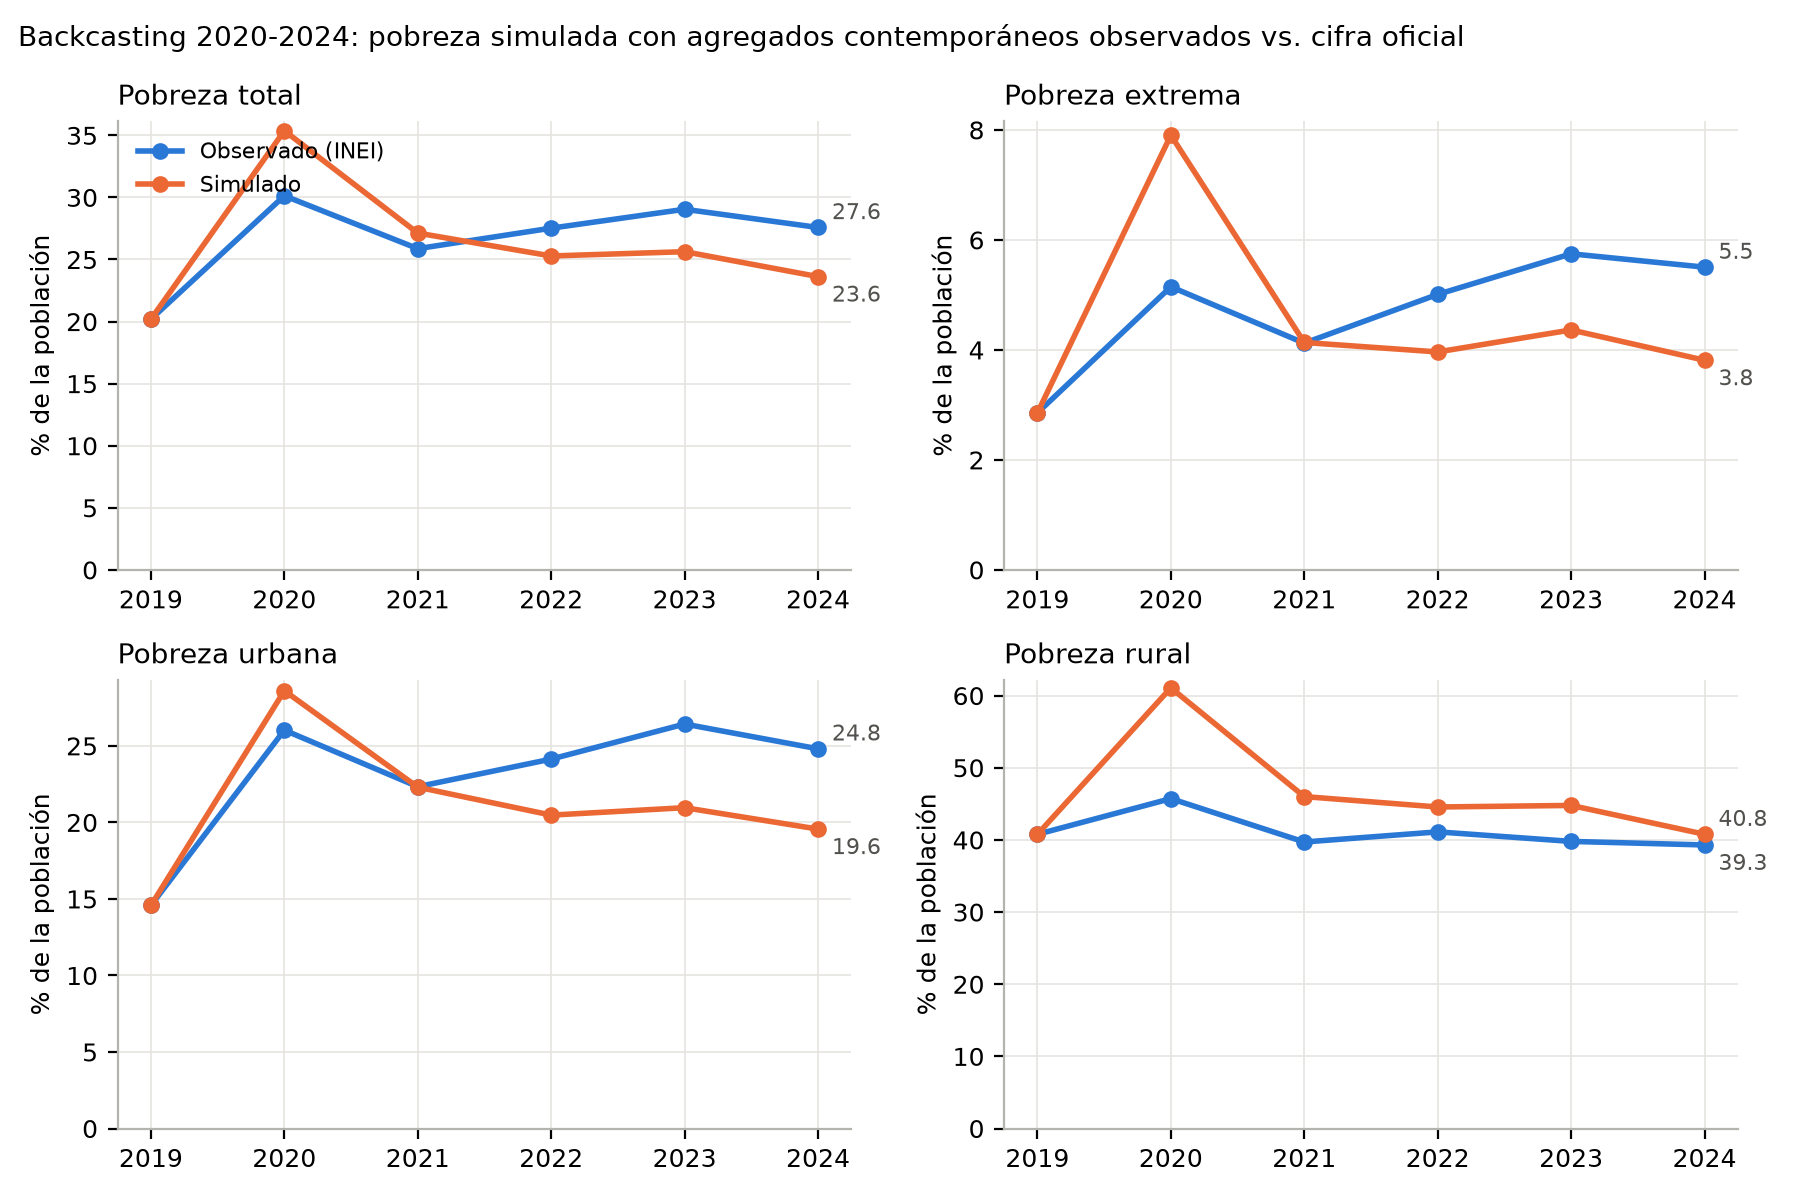
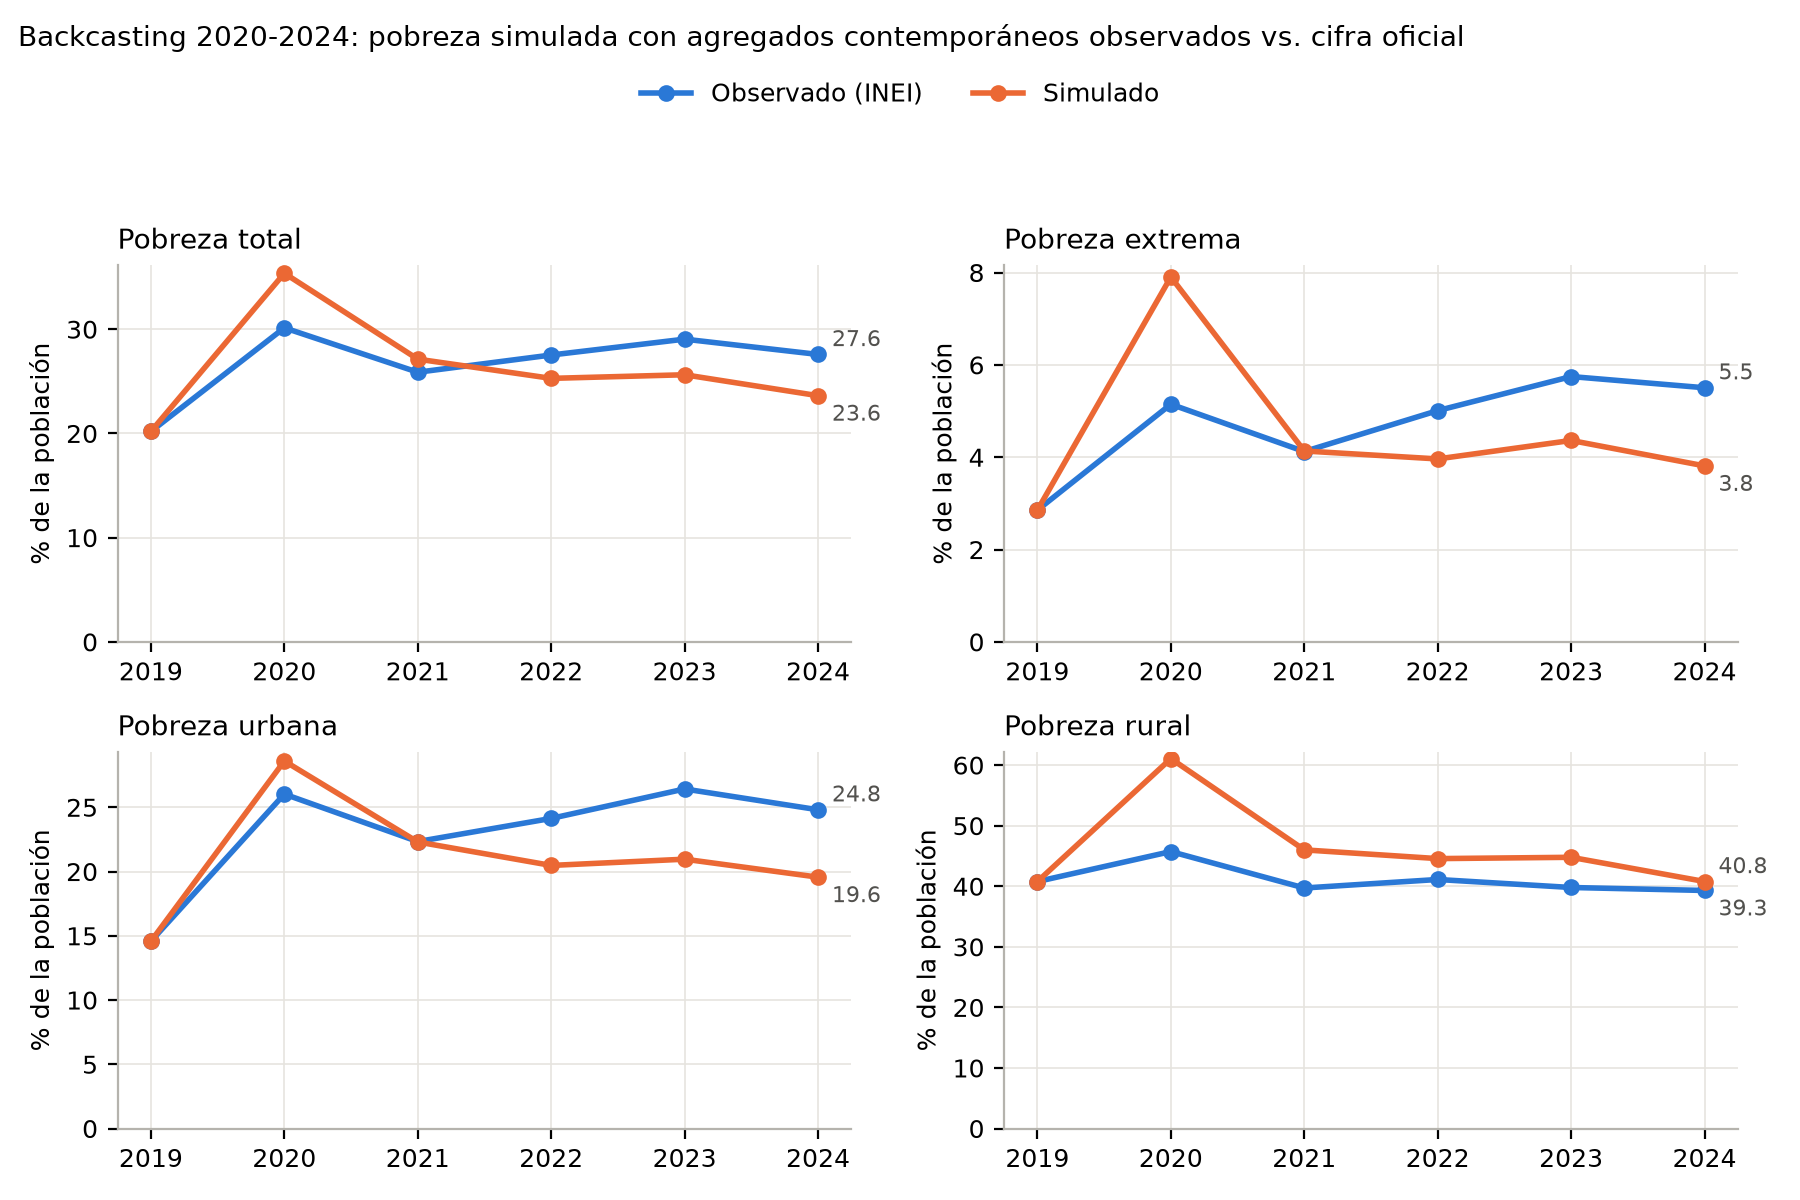
Mover leyenda de figura 1 fuera de las series

diff --git a/pipeline/04_validar.py b/pipeline/04_validar.py
@@ -111,9 +111,12 @@ for ax, (k, titulo) in zip(axes, [("pobreza", "Pobreza total"), ("extrema", "Pob
     alto, bajo = (sim[-1], obs[-1]) if sim[-1] >= obs[-1] else (obs[-1], sim[-1])
     ax.annotate(f"{alto*100:.1f}", (anios[-1], alto * 100), textcoords="offset points", xytext=(5, 3), color="#52514e", fontsize=8)
     ax.annotate(f"{bajo*100:.1f}", (anios[-1], bajo * 100), textcoords="offset points", xytext=(5, -9), color="#52514e", fontsize=8)
-axes[0].legend(frameon=False, loc="upper left", fontsize=8)
+# Leyenda compartida fuera de los ejes: no oculta ninguna trayectoria.
+handles, labels = axes[0].get_legend_handles_labels()
+fig.legend(handles, labels, frameon=False, loc="upper center",
+           bbox_to_anchor=(0.5, 0.95), ncol=2, fontsize=9)
 fig.suptitle("Backcasting 2020-2024: pobreza simulada con agregados contemporáneos observados vs. cifra oficial", x=0.01, ha="left", fontsize=10)
-fig.tight_layout()
+fig.tight_layout(rect=(0, 0, 1, 0.88))
 fig.savefig(C.OUT / "figuras" / "backcast.png", dpi=200)
 fig.savefig(C.OUT / "figuras" / "backcast.pdf")
 
